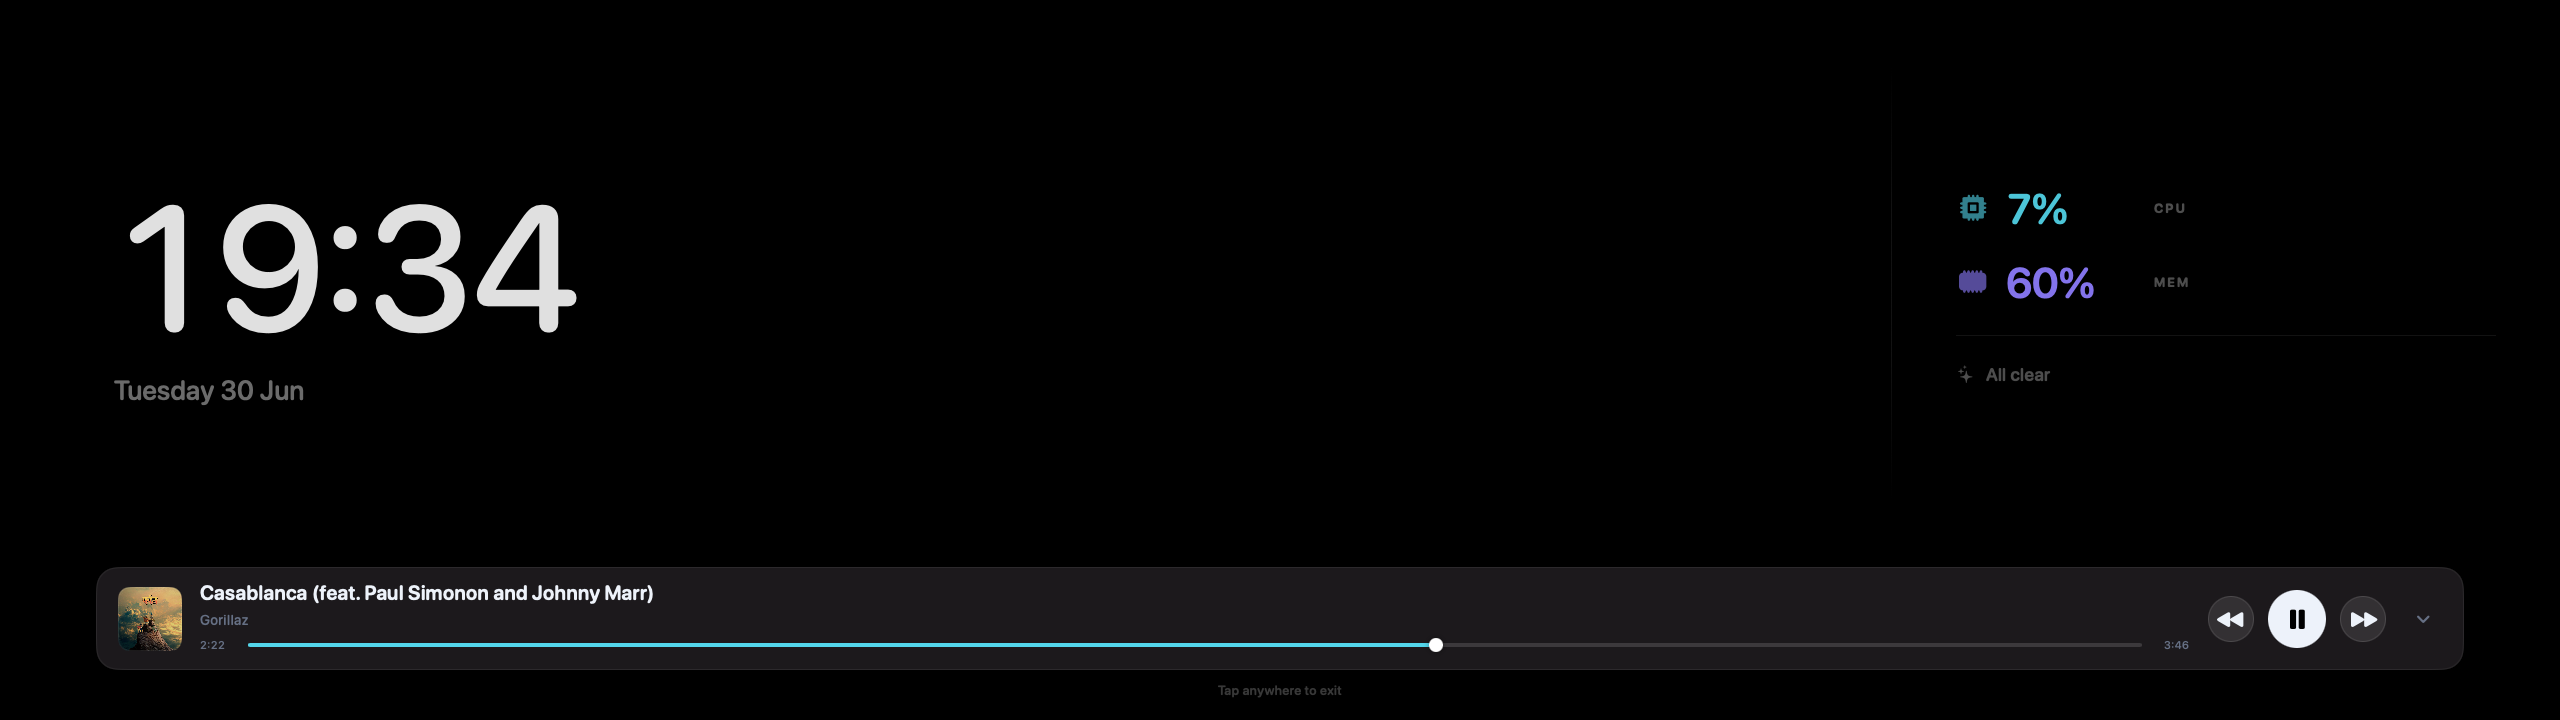
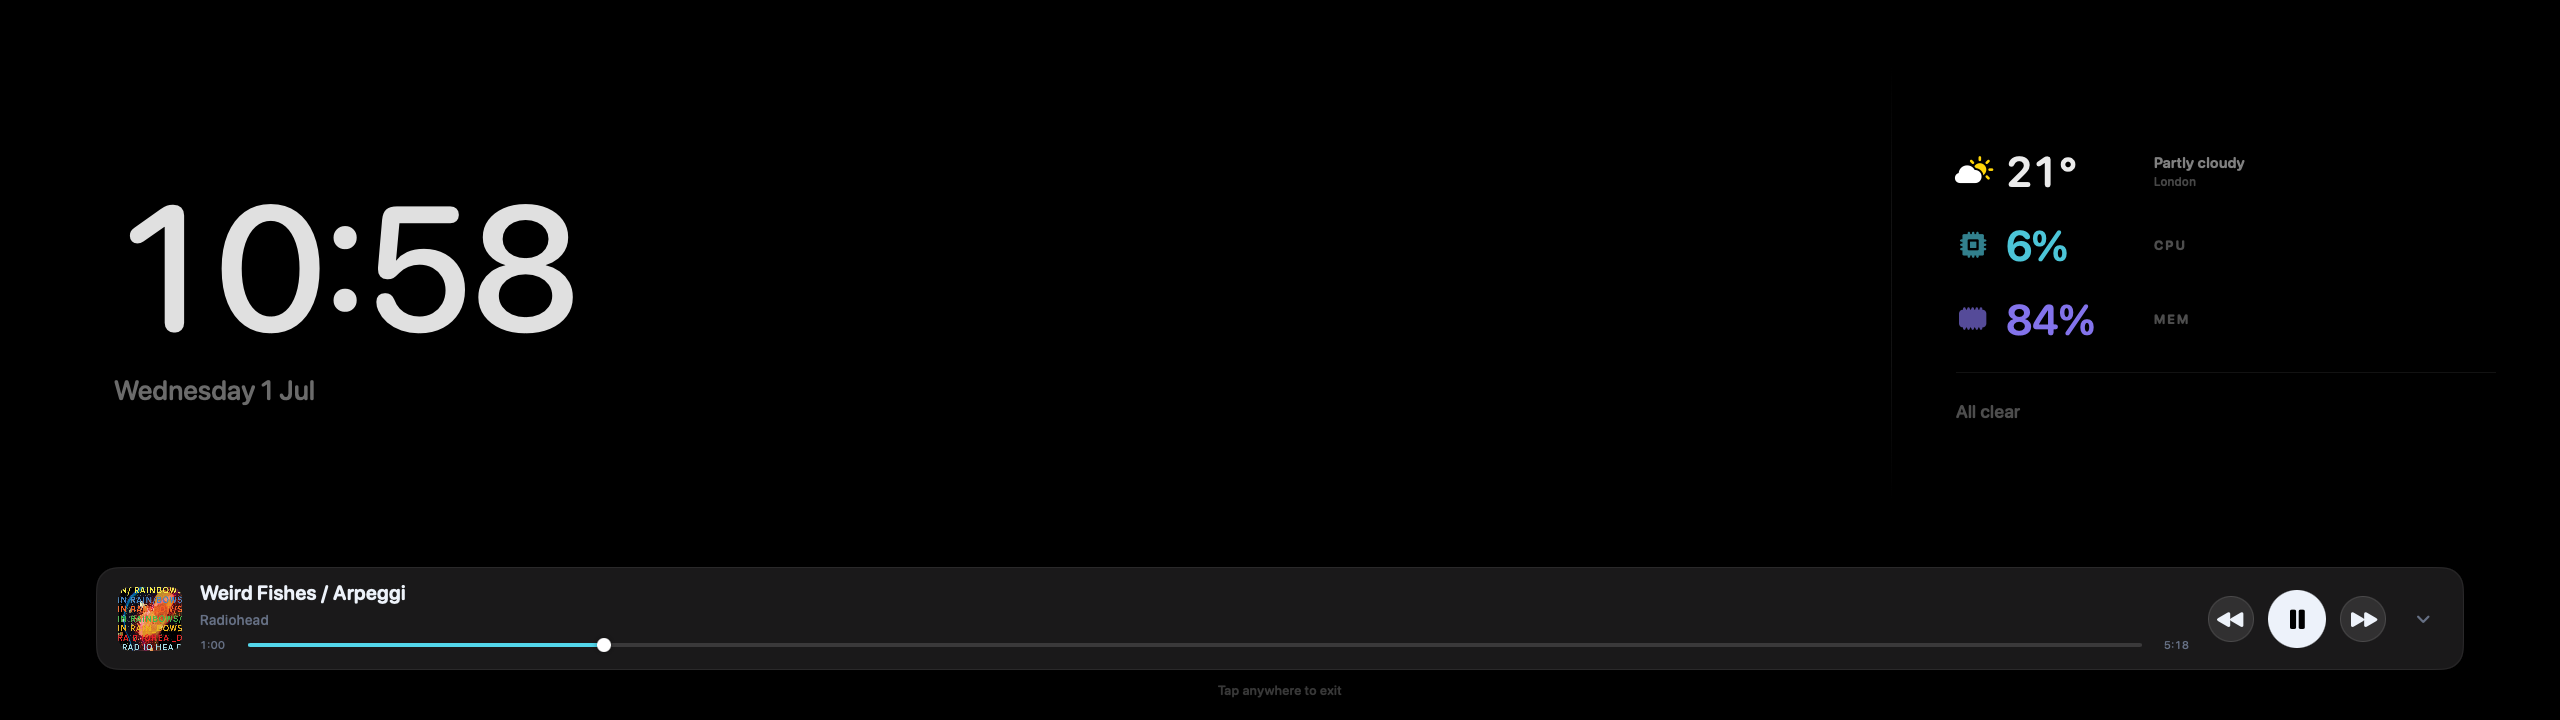
docs: add Deck, Control Centre, weather, iCloud backup to README with screenshots

diff --git a/README.md b/README.md
@@ -46,8 +46,19 @@ apps built for the strip. While the app runs, the panel just works:
 
 - **Customizable dashboard** — CPU, GPU, memory, network, storage, power, clock
   and current weather, with hue-coded ring gauges and sparklines. Tap a tile for a
-  detail view (top processes by CPU or memory), or enter Edit to **drag tiles to
-  rearrange and hide** the ones you don't need — your layout persists.
+  detail view (top processes by CPU or memory; tap the Local tile for a **6-day
+  weather forecast**), or enter Edit to **drag tiles to rearrange and hide** the
+  ones you don't need — your layout persists.
+- **Deck** — a Stream-Deck-style page of big, tappable tiles that quick-launch
+  apps (with their real icons), open websites, run shell commands or webhooks, and
+  control media. Search to add, drag to reorder, sort, and give any tile a custom
+  SF Symbol or an uploaded image.
+- **Control Centre** — swipe down from the top-right — from the full UI or the
+  ambient screen — for a brightness slider, volume, quick actions (Minimal / Sleep /
+  Screen off), a touch toggle, and now-playing.
+- **Touch gestures** — swipe up from the bottom to exit fullscreen, down from the
+  top-left for the ambient screen, and in from the side edges to switch apps; a
+  first-run tutorial teaches them.
 - **Now Playing** — control whatever's playing in Spotify or Music: artwork, a
   scrubbable progress bar, and play/skip — on the dashboard and the ambient screen.
 - **Web browser** — open and save any site on the Edge, with real favicons,
@@ -65,6 +76,8 @@ apps built for the strip. While the app runs, the panel just works:
 - **Remote control** — drive the Edge from any phone or PC browser on the same
   network: switch pages, rest/wake, set brightness, and talk to the assistant
   (with a voice button). On by default; toggle it in Settings.
+- **iCloud backup** — back up your layout, deck, and preferences to iCloud Drive
+  and restore them on another Mac, from Settings.
 - **Stays current** — checks GitHub for new versions and updates itself in place
   (notarized; signature- and developer-verified before it swaps).
 
@@ -72,10 +85,29 @@ apps built for the strip. While the app runs, the panel just works:
 
 ## Screens
 
+### Deck
+
+A Stream-Deck-style launcher: big tiles that open apps (with their real macOS
+icons), launch websites, run shell commands or webhooks, or control media. Tap
+**Edit** to drag tiles into any order or remove them, **Sort** alphabetically or by
+type (with a confirmation before it replaces a hand-arranged order), and **Add**
+from a searchable picker — including custom actions with an SF Symbol or your own
+uploaded icon.
+
+![Deck](docs/img/deck.png)
+
+### Control Centre
+
+Swipe down from the top-right edge for a compact control panel — brightness,
+volume, quick actions, a touch toggle, and now-playing — available over the full
+UI and the ambient screen alike.
+
+![Control Centre](docs/img/control-center.png)
+
 ### Ambient
 
-A calm, always-on view: the time as the hero, with key vitals and your next
-reminder. Tap anywhere to wake to the full UI.
+A calm, always-on view: the time as the hero, with current weather, key vitals,
+and your next reminder. Tap anywhere to wake to the full UI.
 
 ![Ambient mode](docs/img/minimal.png)
 